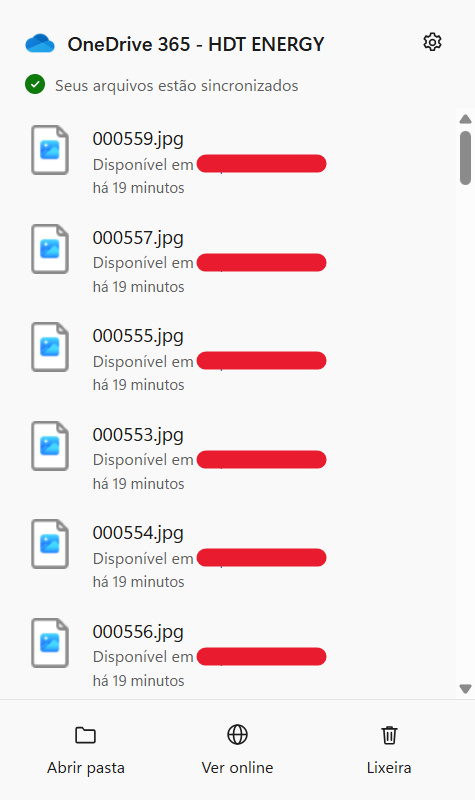
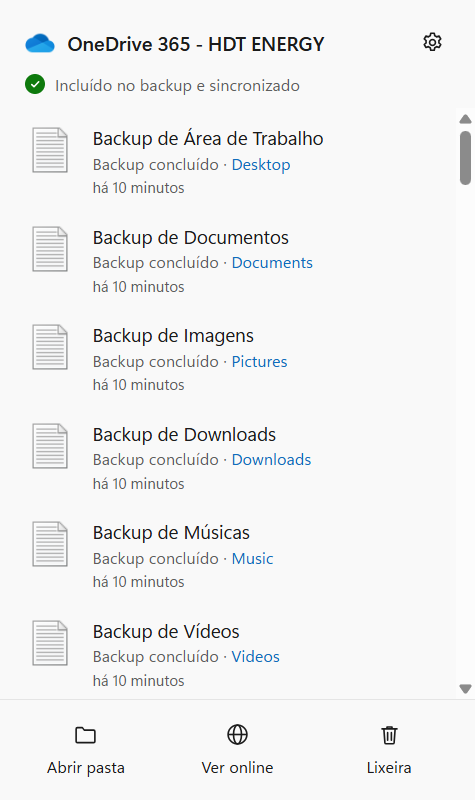
Prints novos de todas as telas e README com os recursos novos; ícone do Mover; DLLs compiladas como UTF-8 (acento no menu); desktop.ini fora da atividade do backup; texto do Gerenciar acesso

diff --git a/src/ui/share.html b/src/ui/share.html
@@ -306,7 +306,7 @@
         ${p.kind !== "owner" && !p.inherited ? `<button class="rm" data-del="${esc(p.id)}" title="Remover acesso"><svg style="width:16px;height:16px"><use href="#i-x"/></svg></button>` : ""}
       </div>`).join("");
     if (tab === "person" && !shared)
-      html += `<div class="empty">Esta ${I.isFolder ? "pasta" : "arquivo"} ainda não foi compartilhad${I.isFolder ? "a" : "o"} com ninguém.</div>
+      html += `<div class="empty">${I.isFolder ? "Esta pasta" : "Este arquivo"} ainda não foi compartilhad${I.isFolder ? "a" : "o"} com ninguém.</div>
                <button class="link-btn" data-goto="main"><svg><use href="#i-add"/></svg>Iniciar compartilhamento</button>`;
     else if (!list.length) html += `<div class="empty">${tab === "group" ? "Nenhum grupo tem acesso." : "Nenhum link criado."}</div>`;
     $("#accessList").innerHTML = html;

diff --git a/src/ui/flyout.html b/src/ui/flyout.html
@@ -173,7 +173,8 @@
       const folder = folderName(x.where);
       const line = x.status === "uploading" ? `Enviando para <a data-open="${esc(x.where)}">${esc(folder)}</a> ${x.percent ?? 0}%`
         : x.status === "error" ? `<span class="err">Não foi possível enviar</span>`
-        : x.status === "downloaded" ? `Baixado em <a data-reveal="${esc(x.path || "")}">${esc(folder)}</a>`
+        : x.status === "backup" ? `Backup concluído · <a data-reveal="${esc(x.path || "")}">${esc(folder)}</a>`
+        : x.status === "downloaded" ?`Baixado em <a data-reveal="${esc(x.path || "")}">${esc(folder)}</a>`
         : `Disponível em <a data-reveal="${esc(x.path || "")}">${esc(folder)}</a>`;
       return `<div class="item" data-file="${esc(x.path || "")}" title="${esc(x.where + "\\" + x.name)}">
         <img src="${img}" alt="">

diff --git a/shell/test_menushot.cpp b/shell/test_menushot.cpp
@@ -1,0 +1,123 @@
+// Abre o menu de botão direito de um caminho (como o Explorer), mostra o submenu "OneDrive 365" (ou o menu inteiro)
+// e salva uma imagem dele, fechando sozinho. Para documentação; não mexe em mouse/teclado.
+// Uso: test_menushot.exe <caminho> <saida.bmp> [--full]
+#include <windows.h>
+#include <shlobj.h>
+#include <shobjidl_core.h>
+#include <cstdio>
+#include <string>
+
+static IContextMenu* g_cm = nullptr;
+static std::wstring g_out;
+static HWND g_owner = nullptr;
+
+static HMENU FindSub(HMENU menu, const wchar_t* title) {
+    const int n = GetMenuItemCount(menu);
+    for (int i = 0; i < n; ++i) {
+        wchar_t text[256] = L"";
+        MENUITEMINFOW mii{sizeof(mii)};
+        mii.fMask = MIIM_STRING | MIIM_SUBMENU;
+        mii.dwTypeData = text;
+        mii.cch = 255;
+        if (GetMenuItemInfoW(menu, i, TRUE, &mii) && mii.hSubMenu && wcscmp(text, title) == 0) {
+            IContextMenu3* cm3 = nullptr;
+            if (SUCCEEDED(g_cm->QueryInterface(IID_PPV_ARGS(&cm3)))) {
+                LRESULT r = 0;
+                cm3->HandleMenuMsg2(WM_INITMENUPOPUP, (WPARAM)mii.hSubMenu, i, &r);
+                cm3->Release();
+            }
+            return mii.hSubMenu;
+        }
+    }
+    return nullptr;
+}
+
+static void SaveBmp(HBITMAP bmp, int w, int h, const std::wstring& path) {
+    BITMAPINFOHEADER bi{sizeof(bi), w, -h, 1, 24, BI_RGB};
+    const int stride = ((w * 3 + 3) & ~3);
+    std::string pixels(stride * h, '\0');
+    HDC dc = GetDC(nullptr);
+    GetDIBits(dc, bmp, 0, h, &pixels[0], reinterpret_cast<BITMAPINFO*>(&bi), DIB_RGB_COLORS);
+    ReleaseDC(nullptr, dc);
+    BITMAPFILEHEADER bf{0x4D42, (DWORD)(sizeof(bf) + sizeof(bi) + pixels.size()), 0, 0, sizeof(bf) + sizeof(bi)};
+    FILE* f = _wfopen(path.c_str(), L"wb");
+    if (!f) return;
+    fwrite(&bf, sizeof(bf), 1, f);
+    fwrite(&bi, sizeof(bi), 1, f);
+    fwrite(pixels.data(), pixels.size(), 1, f);
+    fclose(f);
+}
+
+static int g_tries = 0;
+static void CALLBACK Snap(HWND, UINT, UINT_PTR id, DWORD) {
+    HWND menu = FindWindowW(L"#32768", nullptr);
+    if (!menu || !IsWindowVisible(menu)) {
+        if (++g_tries < 20) return;   // espera o menu aparecer (até ~6 s); depois desiste e fecha
+        KillTimer(g_owner, id);
+        EndMenu();
+        return;
+    }
+    KillTimer(g_owner, id);
+    Sleep(400);   // fim da animação de abrir
+    RECT r;
+    GetWindowRect(menu, &r);
+    const int w = r.right - r.left, h = r.bottom - r.top;
+    HDC screen = GetDC(nullptr);
+    HDC mem = CreateCompatibleDC(screen);
+    HBITMAP bmp = CreateCompatibleBitmap(screen, w, h);
+    HGDIOBJ old = SelectObject(mem, bmp);
+    PrintWindow(menu, mem, 2 /* PW_RENDERFULLCONTENT */);
+    SelectObject(mem, old);
+    SaveBmp(bmp, w, h, g_out);
+    DeleteObject(bmp);
+    DeleteDC(mem);
+    ReleaseDC(nullptr, screen);
+    wprintf(L"menu %dx%d salvo\n", w, h);
+    EndMenu();
+}
+
+static LRESULT CALLBACK Proc(HWND h, UINT m, WPARAM w, LPARAM l) {
+    IContextMenu3* cm3 = nullptr;
+    if (g_cm && (m == WM_INITMENUPOPUP || m == WM_DRAWITEM || m == WM_MEASUREITEM || m == WM_MENUCHAR) &&
+        SUCCEEDED(g_cm->QueryInterface(IID_PPV_ARGS(&cm3)))) {
+        LRESULT r = 0;
+        const HRESULT hr = cm3->HandleMenuMsg2(m, w, l, &r);
+        cm3->Release();
+        if (SUCCEEDED(hr)) return r;
+    }
+    return DefWindowProcW(h, m, w, l);
+}
+
+int wmain(int argc, wchar_t** argv) {
+    if (argc < 3) return 2;
+    SetProcessDpiAwarenessContext(DPI_AWARENESS_CONTEXT_PER_MONITOR_AWARE_V2);
+    CoInitializeEx(nullptr, COINIT_APARTMENTTHREADED);
+    g_out = argv[2];
+    const bool full = argc > 3 && wcscmp(argv[3], L"--full") == 0;
+    WNDCLASSW wc{};
+    wc.lpfnWndProc = Proc;
+    wc.hInstance = GetModuleHandleW(nullptr);
+    wc.lpszClassName = L"MenuShot";
+    RegisterClassW(&wc);
+    g_owner = CreateWindowExW(WS_EX_TOOLWINDOW, L"MenuShot", L"", WS_POPUP, 0, 0, 0, 0, nullptr, nullptr, wc.hInstance, nullptr);
+    PIDLIST_ABSOLUTE pidl = nullptr;
+    if (FAILED(SHParseDisplayName(argv[1], nullptr, &pidl, 0, nullptr))) return 3;
+    IShellFolder* parent = nullptr;
+    PCUITEMID_CHILD child = nullptr;
+    SHBindToParent(pidl, IID_PPV_ARGS(&parent), &child);
+    parent->GetUIObjectOf(g_owner, 1, &child, IID_IContextMenu, nullptr, reinterpret_cast<void**>(&g_cm));
+    HMENU menu = CreatePopupMenu();
+    g_cm->QueryContextMenu(menu, 0, 1, 0x7FFF, CMF_NORMAL);
+    HMENU show = full ? menu : FindSub(menu, L"OneDrive 365");
+    if (!show) { wprintf(L"submenu não encontrado\n"); return 4; }
+    SetForegroundWindow(g_owner);
+    SetTimer(g_owner, 1, 300, Snap);
+    TrackPopupMenuEx(show, TPM_RETURNCMD | TPM_NONOTIFY, 400, 300, g_owner, nullptr);
+    DestroyMenu(menu);
+    g_cm->Release();
+    parent->Release();
+    CoTaskMemFree(pidl);
+    DestroyWindow(g_owner);
+    CoUninitialize();
+    return 0;
+}

diff --git a/src/TrayApp.Window.cs b/src/TrayApp.Window.cs
@@ -252,6 +252,7 @@ sealed partial class TrayApp
 
     void OnBackupFile(BackupManager.Known k, string rel, long size)
     {
+        if (IsInternal(Path.GetFileName(rel))) return;   // desktop.ini do Windows sobe (cópia fiel), mas não é atividade
         AddActivity(new ActivityItem(DateTime.Now, Path.GetFileName(rel), BackupWhere(k, rel), Path.Combine(k.LocalPath, rel.Replace('/', '\\')), size, "done"));
         // A tela é atualizada pelo próximo andamento (a cada 2 s), não a cada arquivo
     }

diff --git a/README.md b/README.md
@@ -52,15 +52,22 @@ Analisamos como o Google Drive para desktop funciona por dentro (`GoogleDriveFS.
 
 **Por baixo do capô:**
 
-1. **Unidade sob demanda.** O `rclone mount` com `--vfs-cache-mode full` sobre o WinFsp. A nuvem só é consultada quando você abre uma pasta, e o arquivo só desce quando você o abre. O cache local vai até 20 GB, e o que não é usado há 7 dias sai sozinho.
+1. **Unidade sob demanda.** O `rclone mount` com `--vfs-cache-mode full` sobre o WinFsp. O arquivo só desce quando você o abre. O cache local vai até 20 GB, e o que não é usado há 7 dias sai sozinho.
+   - **Pastas abrem na hora** (~50 ms em vez de 3 a 4 s): as listagens ficam em memória e, ao montar, o app lê em segundo plano os três primeiros níveis de pastas, como o Google Drive faz com o banco local de metadados. Só o que mudou na nuvem é relido.
+   - **Selo "no PC" na hora:** quando um arquivo termina de baixar, o Explorer troca a nuvem pelo ✓ verde e o painel mostra "Baixado em …".
 2. **Uma unidade, dois mundos.** Remotes `combine` + `union` juntam o **Meu OneDrive** e as **bibliotecas do SharePoint** em `M:`, com um único login.
 3. **Botão "Sincronizar" do SharePoint.** O app se registra como dono do protocolo `odopen://`, resolve a biblioteca pelo Microsoft Graph e a coloca em `M:\SharePoint` em ~1 segundo, sem processar nada. Outros links `odopen://` continuam indo para o OneDrive original. Também dá para escolher, numa lista só, quais bibliotecas que a conta acessa entram na unidade.
 4. **Qualquer conta, qualquer tenant.** Ao trocar de conta ("Desvincular este PC"), bibliotecas que a conta nova não acessa saem sozinhas e o histórico da conta anterior é apagado.
-5. **Patch no rclone** (`tools/rclone-patch`). Atributos de pasta para o Windows mostrar ícones próprios, e notificação de mudanças funcionando também na união de remotes.
-6. **Backup das pastas do PC, só de envio.** Área de Trabalho, Documentos, Imagens, Downloads, Músicas, Vídeos e pastas extras são copiadas para o Meu OneDrive, com 16 envios em paralelo e envio imediato de cada arquivo alterado. **Nada é baixado para o PC.** Uma ⚙ por pasta permite escolher as subpastas.
+5. **Patch no rclone** (`tools/rclone-patch`):
+   - atributos de pasta para o Windows mostrar ícones e cores próprios;
+   - notificação de mudanças funcionando também na união de remotes;
+   - **exclusões e itens movidos na nuvem são avisados** (o delta do OneDrive for Business manda itens excluídos sem caminho, e o rclone original os ignorava). Por isso a unidade pode guardar as listagens sem ficar desatualizada.
+6. **Backup das pastas do PC, só de envio.** Área de Trabalho, Documentos, Imagens, Downloads, Músicas, Vídeos e pastas extras são copiadas para o Meu OneDrive, com 16 envios em paralelo e envio imediato de cada arquivo alterado. **Nada é baixado para o PC.** Uma ⚙ por pasta permite escolher as subpastas, com **Selecionar tudo / Desmarcar tudo** e a opção **"Arquivos soltos nesta pasta"**.
 7. **Integração com o Windows igual à do OneDrive:**
    - selos de status nos arquivos (extensão de shell em C++);
-   - menu do botão direito no Windows 11 e em "Mostrar mais opções" (pacote MSIX esparso), com Compartilhar, Copiar link, Gerenciar acesso, Exibir online e Cor da pasta;
+   - menu do botão direito no Windows 11 e em "Mostrar mais opções" (pacote MSIX esparso), com Compartilhar, Copiar link, Gerenciar acesso, Exibir online, **Abrir com salvamento automático** e Cor da pasta. Fora da nuvem, **Mover para o OneDrive 365**, como o "Mover para o OneDrive" original;
+   - **Word, Excel e PowerPoint com salvamento automático:** "Abrir com salvamento automático" abre o arquivo do M: pelo endereço do SharePoint, com coautoria e histórico de versões;
+   - **excluir no M: vai para a lixeira do OneDrive** (ou do site do SharePoint) e pode ser restaurado. Um aviso discreto oferece "Abrir lixeira", com "Não mostrar novamente";
    - ícone na bandeja com animação de sincronização e painel igual ao do OneDrive, com Pausar, Desvincular este PC e Sair;
    - assistente de instalação com as ilustrações do próprio OneDrive.
 8. **Instalador único.** Um só `.exe` (~98 MB) traz o .NET, o rclone, o WinFsp, as extensões de shell e a interface. Ele pede o administrador uma única vez.
@@ -73,6 +80,15 @@ Analisamos como o Google Drive para desktop funciona por dentro (`GoogleDriveFS.
 | OneDrive 365 (M:) | Este Computador |
 |---|---|
 | ![](docs/screenshots/a5-explorer-unidade-m.png) | ![](docs/screenshots/a6-explorer-este-computador.png) |
+| **Selos: nuvem e ✓ no PC** | **Menu do botão direito** |
+| ![](docs/screenshots/a8-explorer-selos.png) | ![](docs/screenshots/20-menu-explorer.png) |
+
+### Office, exclusão e escolha de pastas
+| Word pela nuvem, com salvamento automático | Excluído da nuvem → lixeira |
+|---|---|
+| ![](docs/screenshots/21-office-salvamento-automatico.png) | ![](docs/screenshots/19-aviso-exclusao.png) |
+| **Escolher pastas** (Selecionar tudo, arquivos soltos) | |
+| ![](docs/screenshots/18-escolher-pastas.png) | |
 
 ### Janela principal
 | Início | Início, fazendo backup |
